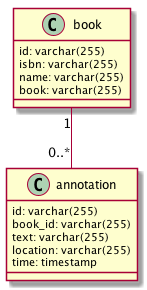
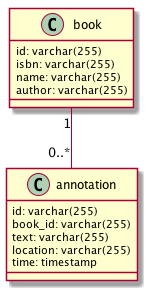
extract without whitespaces

Changed region(s): [[0.0544, 0.0, 0.9524, 0.4034], [0.2721, 0.031, 0.4626, 0.1241], [0.2993, 0.031, 0.3537, 0.0621]]

diff --git a/cmd/tt-extractor-kindle/main.go b/cmd/tt-extractor-kindle/main.go
@@ -2,6 +2,7 @@ package main
 
 import (
 	"bufio"
+	"bytes"
 	"database/sql"
 	"flag"
 	"fmt"
@@ -39,12 +40,64 @@ func main() {
 		scanner = bufio.NewScanner(os.Stdin)
 		_, _ = fmt.Fprintln(os.Stderr, "Reading from stdin")
 	}
+	configureScanner(scanner)
 
 	_ = os.Remove(databaseLocation)
 	db, err := sql.Open("sqlite3", fmt.Sprintf("file:%s?cache=shared", databaseLocation))
 	if err != nil {
 		log.Fatalf("Failed to open database file: %s, reason: %v", databaseLocation, err)
 	}
-	extractor.NewContentExtractor(db).IngestRecords(scanner)
+	extractor.
+		NewContentExtractor(db).
+		IngestRecords(scanner)
 	defer db.Close()
+}
+
+func configureScanner(scanner *bufio.Scanner) {
+	const MAX_BLOCK_SIZE = 1024 * 1024
+	const BUFF_SIZE = 64 * 1024
+	const KINDLE_SPLITTER = "=========="
+
+	buf := make([]byte, 0, BUFF_SIZE)
+	scanner.Buffer(buf, MAX_BLOCK_SIZE)
+
+	separator := []byte(KINDLE_SPLITTER)
+	scanner.Split(func(data []byte, atEOF bool) (advance int, token []byte, err error) {
+		if atEOF && len(data) == 0 {
+			return 0, nil, nil
+		}
+		if i := bytes.Index(data, separator); i >= 0 {
+			nbs := skipWhitespace(data, i+1+len(separator)) // next block start
+			cbs := skipWhitespace(data, 0)                  // current block start
+			cbe := beforeWhitespace(data, i)                // current block ending + 1
+			return nbs, data[cbs:cbe], nil
+		}
+		if atEOF {
+			return len(data), data, nil
+		}
+		// Request more data.
+		return 0, nil, nil
+	})
+}
+
+func beforeWhitespace(data []byte, startFrom int) int {
+	iter := startFrom
+	for iter > 0 && (data[iter-1] == '\n' || data[iter-1] == '\r') {
+		iter--
+	}
+	return iter
+}
+
+func skipWhitespace(data []byte, startFrom int) int {
+	iter := startFrom
+	for {
+		if iter < len(data) && (data[iter] == '\n' || data[iter] == '\r') {
+			iter++
+			//TODO: compare rune, not per byte
+		} else if iter < len(data)-2 && (data[iter] == 0xEF && data[iter+1] == 0xBB && data[iter+2] == 0xBF) {
+			iter += 3
+		}
+		break
+	}
+	return iter
 }

diff --git a/content-extractor.go b/content-extractor.go
@@ -12,9 +12,11 @@ type ContentExtractor struct {
 
 func NewContentExtractor(db *sql.DB) *ContentExtractor {
 	sqlStmt := `
-	create table foo (
+	create table book (
 		id integer not null primary key, 
-		line text
+		isbn text,
+		name text,
+		authors text
 	);
 	`
 	_, err := db.Exec(sqlStmt)
@@ -42,12 +44,12 @@ func (e ContentExtractor) ingestRow(l string) {
 	if err != nil {
 		log.Fatal(err)
 	}
-	stmt, err := tx.Prepare("insert into foo(line) values(?)")
+	stmt, err := tx.Prepare("insert into book(isbn, name, authors) values(?,?,?)")
 	if err != nil {
 		log.Fatal(err)
 	}
 	defer stmt.Close()
-	_, err = stmt.Exec(l)
+	_, err = stmt.Exec("", l, l)
 	if err != nil {
 		log.Fatal(err)
 	}
